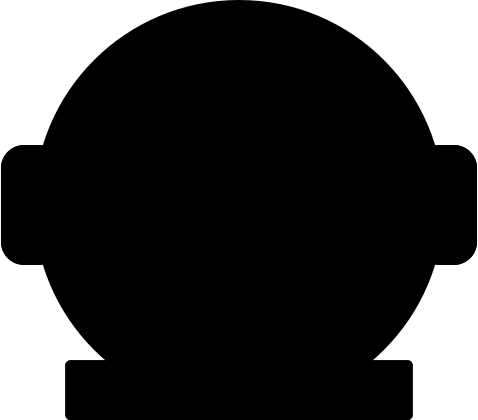
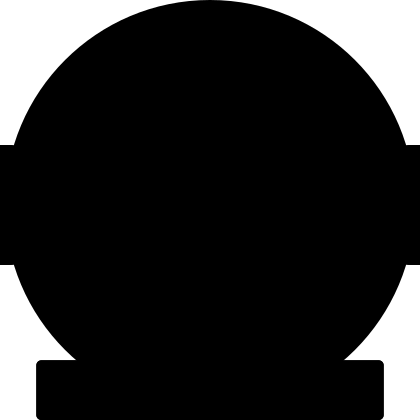
fix mask

diff --git a/index.html b/index.html
@@ -27,7 +27,8 @@
 				left: 50%;
 				z-index: -1;
 				transform: translateX(-50%);
-				-webkit-mask-box-image: url("mask.png");
+				-webkit-mask-image: url("mask.png");
+				mask-image: url("mask.png");
 				object-fit: fill;
 			}
 			canvas {
